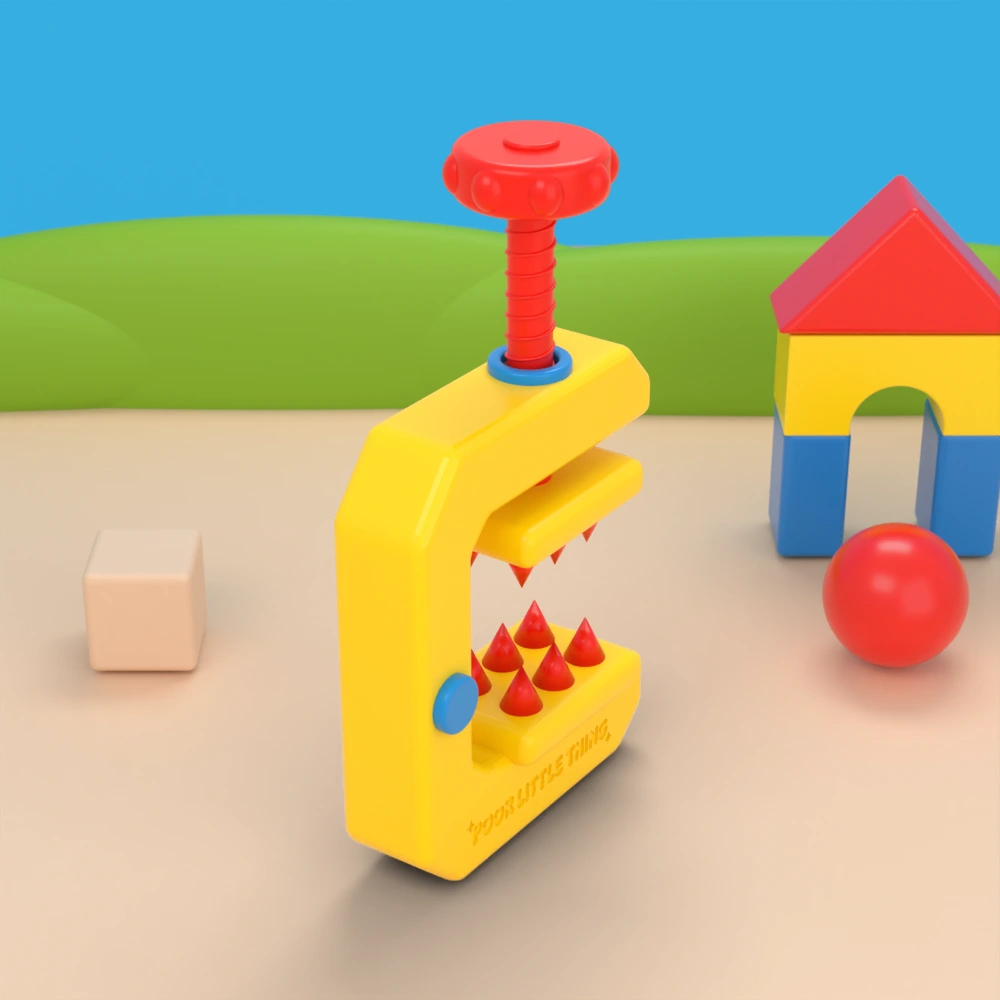
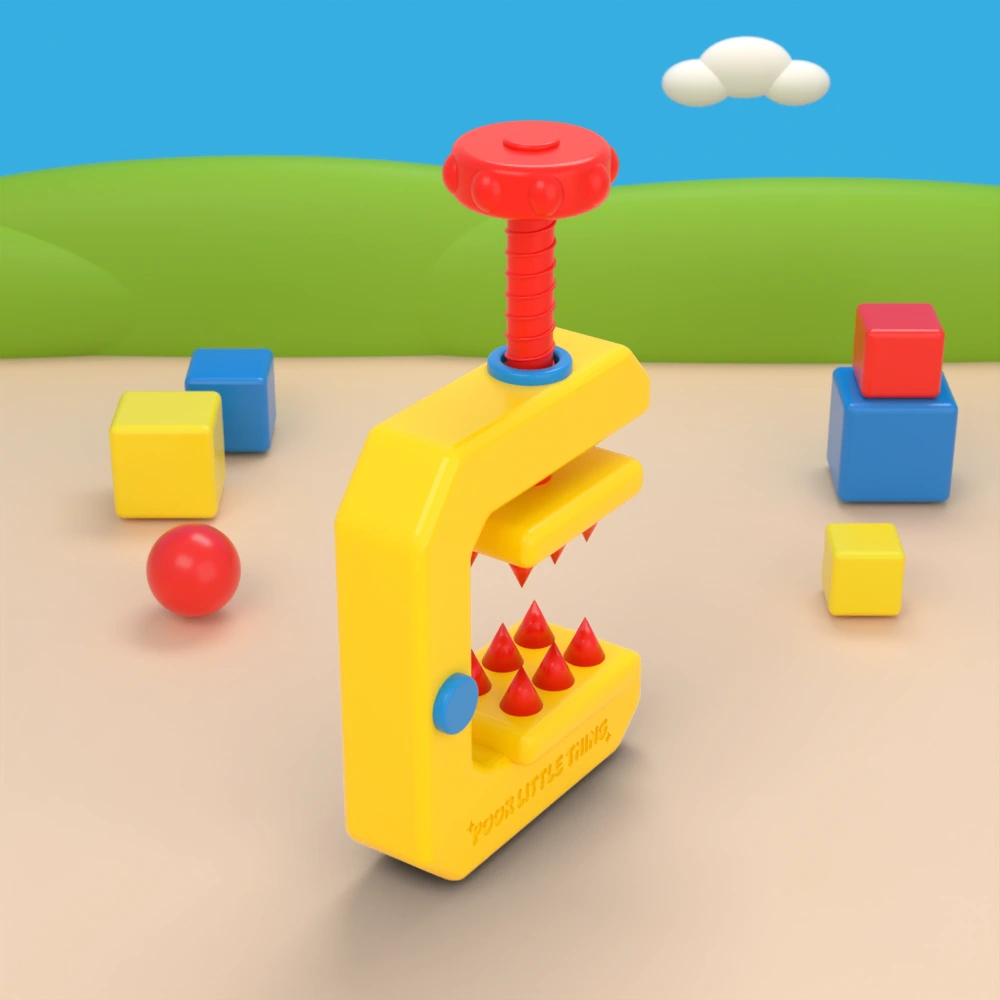
Turn models with pointer movement and vary toy scenes

Changed region(s): [[0.0, 0.155, 1.0, 0.744], [0.0, 0.341, 0.496, 0.713], [0.651, 0.031, 0.837, 0.124]]

diff --git a/src/style.css b/src/style.css
@@ -4,42 +4,33 @@
 *{box-sizing:border-box}html{scroll-behavior:smooth;scroll-padding-top:24px}body{margin:0}button,a,input{-webkit-tap-highlight-color:transparent}button,input{font:inherit}button,a{touch-action:manipulation}button{cursor:pointer}a{color:inherit;text-decoration:none}button{color:inherit}button:focus-visible,a:focus-visible,input:focus-visible,summary:focus-visible{outline:3px solid var(--blue);outline-offset:6px}::selection{background:var(--yellow);color:var(--dark-red)}img{max-width:100%;display:block}.sr-only{position:absolute;width:1px;height:1px;padding:0;margin:-1px;overflow:hidden;clip:rect(0,0,0,0);white-space:nowrap;border:0}.skip-link{position:fixed;left:24px;top:16px;z-index:100;background:var(--red);color:var(--paper);padding:14px 20px;transform:translateY(-150%)}.skip-link:focus{transform:translateY(0)}
 .site-header{display:grid;grid-template-columns:90px 1fr auto;align-items:center;gap:30px;margin:0 3.3vw;padding:26px 0 20px;border-bottom:1px solid var(--line)}.brand{display:block;width:78px;height:78px}.brand img,.footer-brand img{filter:invert(10%) sepia(99%) saturate(4886%) hue-rotate(360deg) brightness(77%) contrast(119%);width:100%;height:100%;object-fit:contain}.header-note{font-size:14px;line-height:1.2;letter-spacing:-.02em}.site-header nav{display:flex;gap:42px;font-size:15px;letter-spacing:-.025em}.site-header nav a{padding:8px 0;text-decoration-thickness:1px;text-underline-offset:5px}.site-header nav a:hover{text-decoration:underline}
 .hero{padding:0 3.3vw}.hero-heading{display:flex;align-items:flex-end;justify-content:space-between;gap:40px;padding:46px 0 45px}.hero h1{font-size:clamp(68px,8.6vw,160px);font-weight:650;letter-spacing:-.075em;line-height:.86;color:var(--red);margin:0}.hero h1 span{display:block}.hero h1 span:last-child{padding-left:15.5vw}.hero-aside{display:flex;align-items:flex-end;gap:60px;padding-bottom:6px;flex-shrink:0}.hero-aside p{font-size:17px;line-height:1.32;letter-spacing:-.025em;margin:0 0 2px}.explore-link{min-height:44px;display:flex;align-items:center;font-size:15px;text-decoration:underline;text-decoration-thickness:1px;text-underline-offset:6px;transition:color .2s}.explore-link:hover{color:var(--red)}.hero-figure{margin:0}.hero-image-wrap{overflow:hidden;background:#51b8dd;aspect-ratio:1672/941}.hero-image{width:100%;height:100%;object-fit:cover;transform-origin:50% 50%}.hero figcaption{display:flex;justify-content:space-between;gap:20px;padding:15px 0 20px;font-size:12px;letter-spacing:.015em}.hero figcaption>span:first-child{font-size:10px;font-weight:700;letter-spacing:.07em}.caption-end{text-align:right}
-.collection{padding:125px 3.3vw 100px}.section-intro{display:grid;grid-template-columns:1fr 2fr;gap:30px;align-items:start;margin-bottom:66px}.section-number{font-size:11px;letter-spacing:.07em;padding-top:11px;font-weight:600}.section-intro>div{display:grid;grid-template-columns:1.2fr 1fr;gap:48px}.section-intro h2{font-size:clamp(36px,4.4vw,76px);line-height:.98;letter-spacing:-.06em;font-weight:550;margin:0}.section-intro p{font-size:19px;line-height:1.4;letter-spacing:-.03em;max-width:300px;margin:7px 0 0}.collection-toolbar{border-bottom:1px solid var(--line);display:flex;justify-content:space-between;align-items:center;gap:20px;padding-bottom:15px}.filters{display:flex;gap:30px}.filter,.motion-toggle{background:none;border:0;padding:8px 0;font-size:14px;line-height:1.3}.filter{color:color-mix(in srgb,var(--ink) 58%,transparent);position:relative}.filter::after{content:'';height:2px;background:var(--red);position:absolute;bottom:-16px;left:0;right:0;transform:scaleX(0);transform-origin:left;transition:transform .2s}.filter.active{color:var(--red)}.filter.active::after{transform:scaleX(1)}.filter span{font-size:10px;vertical-align:super;padding-left:4px}.motion-toggle{display:flex;align-items:center;gap:10px}.motion-icon{font-size:18px;line-height:1;min-width:15px}.view-hint{display:flex;gap:10px;margin:15px 0 30px;font-size:12px;color:color-mix(in srgb,var(--ink) 72%,transparent)}.view-hint>span{font-size:16px;line-height:14px}.product-grid{display:grid;grid-template-columns:repeat(3,minmax(0,1fr));gap:50px 22px}.product-card{min-width:0}.product-card[hidden]{display:none}.object-stage{position:relative;aspect-ratio:1;background:#eeeadd;overflow:hidden;isolation:isolate}.product-card:nth-child(6n+2) .object-stage{background:#e4e9e4}.product-card:nth-child(6n+3) .object-stage{background:#efe0d6}.product-card:nth-child(6n+4) .object-stage{background:#e7e5e9}.product-card:nth-child(6n+5) .object-stage{background:#ece7d0}.product-card:nth-child(6n+6) .object-stage{background:#e2e7ec}.object-stage img{position:absolute;inset:0;width:100%;height:100%;object-fit:cover;opacity:0;pointer-events:none}.object-stage img.is-active{opacity:1}.piece-number{position:absolute;top:16px;left:17px;font-size:10px;letter-spacing:.04em;color:color-mix(in srgb,var(--ink) 60%,transparent);z-index:3}.object-turn-label{position:absolute;bottom:16px;right:17px;font-size:10px;display:flex;align-items:center;gap:6px;opacity:0;transform:translateY(3px);transition:opacity .2s,transform .2s;pointer-events:none;z-index:3}.object-stage:hover .object-turn-label,.product-card:focus-within .object-turn-label{opacity:.8;transform:none}.piece-details{border-bottom:1px solid var(--line)}.piece-details summary{display:flex;align-items:center;justify-content:space-between;gap:12px;cursor:pointer;list-style:none;padding:2px 0 14px}.piece-details summary::-webkit-details-marker{display:none}.piece-title{font-size:20px;font-weight:500;letter-spacing:-.04em}.piece-category{display:block;font-size:11px;font-weight:400;letter-spacing:0;margin-top:5px;color:color-mix(in srgb,var(--ink) 65%,transparent)}.detail-plus{font-size:24px;font-weight:300;transition:transform .2s}.piece-details[open] .detail-plus{transform:rotate(45deg)}.piece-description{padding:3px 0 20px;font-size:15px;line-height:1.45;letter-spacing:-.01em;max-width:35ch}.piece-description p{margin:0 0 10px}.piece-description .piece-medium{font-size:11px;color:color-mix(in srgb,var(--ink) 65%,transparent);margin-bottom:0}.collection-end{display:flex;align-items:center;justify-content:space-between;margin-top:60px;padding:24px 0 0;font-size:16px;letter-spacing:-.025em}.collection-error{padding:50px 0}.collection-error button,.collection-error a{color:var(--red);background:none;border:0;text-decoration:underline;padding:0}
+.collection{padding:125px 3.3vw 100px}.section-intro{display:grid;grid-template-columns:1fr 2fr;gap:30px;align-items:start;margin-bottom:66px}.section-number{font-size:11px;letter-spacing:.07em;padding-top:11px;font-weight:600}.section-intro>div{display:grid;grid-template-columns:1.2fr 1fr;gap:48px}.section-intro h2{font-size:clamp(36px,4.4vw,76px);line-height:.98;letter-spacing:-.06em;font-weight:550;margin:0}.section-intro p{font-size:19px;line-height:1.4;letter-spacing:-.03em;max-width:300px;margin:7px 0 0}.collection-toolbar{border-bottom:1px solid var(--line);display:flex;justify-content:space-between;align-items:center;gap:20px;padding-bottom:15px}.filters{display:flex;gap:30px}.filter{background:none;border:0;padding:8px 0;font-size:14px;line-height:1.3}.filter{color:color-mix(in srgb,var(--ink) 58%,transparent);position:relative}.filter::after{content:'';height:2px;background:var(--red);position:absolute;bottom:-16px;left:0;right:0;transform:scaleX(0);transform-origin:left;transition:transform .2s}.filter.active{color:var(--red)}.filter.active::after{transform:scaleX(1)}.filter span{font-size:10px;vertical-align:super;padding-left:4px}.view-hint{display:flex;gap:10px;margin:15px 0 30px;font-size:12px;color:color-mix(in srgb,var(--ink) 72%,transparent)}.view-hint>span{font-size:16px;line-height:14px}.product-grid{display:grid;grid-template-columns:repeat(3,minmax(0,1fr));gap:50px 22px}.product-card{min-width:0}.product-card[hidden]{display:none}.object-stage{position:relative;aspect-ratio:1;background:#eeeadd;overflow:hidden;isolation:isolate}.product-card:nth-child(6n+2) .object-stage{background:#e4e9e4}.product-card:nth-child(6n+3) .object-stage{background:#efe0d6}.product-card:nth-child(6n+4) .object-stage{background:#e7e5e9}.product-card:nth-child(6n+5) .object-stage{background:#ece7d0}.product-card:nth-child(6n+6) .object-stage{background:#e2e7ec}.object-stage img{position:absolute;inset:0;width:100%;height:100%;object-fit:cover;opacity:0;pointer-events:none}.object-stage img.is-active{opacity:1}.piece-number{position:absolute;top:16px;left:17px;font-size:10px;letter-spacing:.04em;color:color-mix(in srgb,var(--ink) 60%,transparent);z-index:3}.object-turn-label{position:absolute;bottom:16px;right:17px;font-size:10px;display:flex;align-items:center;gap:6px;opacity:0;transform:translateY(3px);transition:opacity .2s,transform .2s;pointer-events:none;z-index:3}.object-stage:hover .object-turn-label,.product-card:focus-within .object-turn-label{opacity:.8;transform:none}.piece-details{border-bottom:1px solid var(--line)}.piece-details summary{display:flex;align-items:center;justify-content:space-between;gap:12px;cursor:pointer;list-style:none;padding:2px 0 14px}.piece-details summary::-webkit-details-marker{display:none}.piece-title{font-size:20px;font-weight:500;letter-spacing:-.04em}.piece-category{display:block;font-size:11px;font-weight:400;letter-spacing:0;margin-top:5px;color:color-mix(in srgb,var(--ink) 65%,transparent)}.detail-plus{font-size:24px;font-weight:300;transition:transform .2s}.piece-details[open] .detail-plus{transform:rotate(45deg)}.piece-description{padding:3px 0 20px;font-size:15px;line-height:1.45;letter-spacing:-.01em;max-width:35ch}.piece-description p{margin:0 0 10px}.piece-description .piece-medium{font-size:11px;color:color-mix(in srgb,var(--ink) 65%,transparent);margin-bottom:0}.collection-end{display:flex;align-items:center;justify-content:space-between;margin-top:60px;padding:24px 0 0;font-size:16px;letter-spacing:-.025em}.collection-error{padding:50px 0}.collection-error button,.collection-error a{color:var(--red);background:none;border:0;text-decoration:underline;padding:0}
 .idea{background:var(--blue);color:var(--paper);padding:35px 3.3vw 85px;overflow:hidden}.idea-top{display:flex;justify-content:space-between;font-size:11px;letter-spacing:.03em}.idea-top>span:first-child{letter-spacing:.07em}.idea-title-wrap{position:relative;padding-top:75px}.idea h2{font-size:clamp(60px,9.3vw,165px);line-height:.9;letter-spacing:-.07em;font-weight:550;margin:0;color:var(--yellow)}.idea h2 span{display:block;margin-left:17vw}.idea-spark{position:absolute;right:3.5vw;top:65px;font-size:clamp(90px,15vw,260px);line-height:1;color:var(--yellow)}.idea-bottom{display:grid;grid-template-columns:1fr 1fr;gap:12vw;padding-top:90px}.idea-question{font-size:clamp(42px,5.3vw,90px);line-height:.98;letter-spacing:-.06em;margin:0;font-weight:500}.idea-copy{max-width:540px;font-size:20px;line-height:1.4;letter-spacing:-.025em}.idea-copy p{margin:0 0 22px}.idea-copy .idea-final{margin-top:35px;color:var(--yellow)}.adult-note{display:block;font-size:11px;letter-spacing:0;margin-top:40px;opacity:.8}
 .inquiries{padding:95px 3.3vw 105px;background:var(--yellow);color:var(--dark-red)}.inquiry-top{display:flex;justify-content:space-between;align-items:start}.inquiry-top>span{font-size:11px;letter-spacing:.07em}.inquiry-top p{font-size:15px;line-height:1.35;letter-spacing:-.02em;margin:0}.inquiry-link{display:flex;align-items:center;justify-content:space-between;margin:65px 0 28px;gap:20px}.inquiry-link h2{font-size:clamp(60px,8.5vw,145px);font-weight:550;letter-spacing:-.07em;line-height:.9;margin:0}.inquiry-link:hover h2{text-decoration:underline;text-decoration-thickness:.035em;text-underline-offset:.09em}.email-link{display:inline-flex;gap:40px;padding-bottom:8px;border-bottom:1px solid var(--dark-red);font-size:clamp(16px,2.1vw,31px);letter-spacing:-.04em}
 footer{display:grid;grid-template-columns:1fr 1fr 1fr;align-items:end;gap:30px;padding:55px 3.3vw 32px}.footer-brand{width:122px;height:122px}footer>p{font-size:26px;line-height:1.12;letter-spacing:-.04em;margin:0 0 3px}.footer-meta{display:flex;justify-content:space-between;gap:30px;font-size:11px;align-self:end}.footer-meta a{white-space:nowrap}.footer-meta a:hover{text-decoration:underline}
 @media(min-width:1900px){body{max-width:2000px;margin:auto}.hero h1 span:last-child{padding-left:300px}.idea h2 span{margin-left:325px}}
 @media(max-width:1150px){.hero h1{font-size:9.6vw}.hero h1 span:last-child{padding-left:7vw}.hero-aside{gap:25px}.hero-aside p{font-size:14px}.section-intro{grid-template-columns:1fr 2.5fr}.section-intro>div{gap:30px}.section-intro p{font-size:16px}.site-header nav{gap:26px}.product-grid{gap:42px 18px}.footer-meta{flex-direction:column;gap:18px}}
-@media(max-width:760px){.site-header{grid-template-columns:64px 1fr;margin:0 5vw;padding-top:20px;padding-bottom:18px;gap:15px}.brand{width:60px;height:60px}.header-note{display:none}.site-header nav{gap:22px;justify-content:flex-end;font-size:12px}.hero{padding:0 5vw}.hero-heading{padding:42px 0 28px;gap:20px}.hero h1{font-size:12vw;line-height:.9}.hero h1 span:last-child{padding-left:6vw}.hero-aside p{display:none}.explore-link{font-size:13px}.hero-figure .hero-image-wrap{aspect-ratio:1.34}.hero-image{object-position:50% 50%}.hero figcaption{font-size:10px;gap:10px;padding-top:12px}.hero figcaption>span:first-child{font-size:8px}.caption-end{display:none}.collection{padding:75px 5vw 65px}.section-intro{display:block;margin-bottom:38px}.section-number{display:block;padding:0 0 24px;font-size:10px}.section-intro>div{grid-template-columns:1.15fr 1fr;gap:30px}.section-intro h2{font-size:6.3vw}.section-intro p{font-size:14px;line-height:1.35;margin:0}.filters{gap:22px}.filter,.motion-toggle{font-size:12px}.motion-toggle{gap:6px}.motion-icon{font-size:15px}.view-hint{font-size:10px;margin-bottom:24px;line-height:1.35;align-items:center}.product-grid{grid-template-columns:repeat(2,minmax(0,1fr));gap:32px 14px}.piece-number{top:12px;left:12px;font-size:9px}.object-turn-label{display:none}.piece-title{font-size:18px}.piece-category{font-size:10px}.piece-details summary{padding-bottom:12px}.piece-description{font-size:13px}.collection-end{margin-top:40px;font-size:12px;gap:20px}.idea{padding:25px 5vw 55px}.idea-top{font-size:9px}.idea-top>span:last-child{max-width:110px;text-align:right}.idea-title-wrap{padding-top:56px}.idea h2{font-size:11vw}.idea h2 span{margin-left:5vw}.idea-spark{right:0;top:44px;font-size:18vw}.idea-bottom{padding-top:55px;grid-template-columns:.8fr 1.3fr;gap:10vw}.idea-question{font-size:7vw}.idea-copy{font-size:15px}.idea-copy p{margin-bottom:17px}.idea-copy .idea-final{margin-top:25px}.adult-note{font-size:10px;margin-top:28px}.inquiries{padding:55px 5vw 60px}.inquiry-top>span{font-size:10px}.inquiry-top p{font-size:12px}.inquiry-link{margin-top:45px}.inquiry-link h2{font-size:11.2vw}.email-link{font-size:20px;gap:20px}footer{padding:35px 5vw 26px;grid-template-columns:1fr 1fr;gap:25px}.footer-brand{width:90px;height:90px}footer>p{font-size:21px}.footer-meta{grid-column:1/-1;flex-direction:row;font-size:10px;padding-top:10px}}
-@media(max-width:430px){.site-header nav{gap:16px;font-size:11px}.hero-heading{padding-top:34px}.hero h1{font-size:12.3vw}.explore-link{font-size:12px}.hero-aside{padding-bottom:1px}.hero-image-wrap{margin-left:-5vw;margin-right:-5vw;aspect-ratio:1.15!important}.section-intro>div{display:block}.section-intro h2{font-size:10vw}.section-intro p{font-size:15px;max-width:29ch;margin-top:24px}.collection-toolbar{align-items:center;gap:8px}.filters{gap:14px}.filter,.motion-toggle{font-size:11px}.motion-label{max-width:62px;text-align:left}.filter::after{bottom:-16px}.product-grid{grid-template-columns:1fr;gap:33px}.object-stage{aspect-ratio:1}.piece-title{font-size:22px}.piece-category{font-size:11px}.piece-description{font-size:15px}.idea-bottom{display:block}.idea-question{font-size:11vw;margin-bottom:35px}.idea-copy{font-size:17px;max-width:32ch}.idea h2{font-size:11.4vw}.idea-spark{top:48px;right:-1vw;font-size:15vw}.inquiry-top p{font-size:11px}.email-link{font-size:18px}.footer-brand{width:80px;height:80px}footer>p{font-size:19px}}
+@media(max-width:760px){.site-header{grid-template-columns:64px 1fr;margin:0 5vw;padding-top:20px;padding-bottom:18px;gap:15px}.brand{width:60px;height:60px}.header-note{display:none}.site-header nav{gap:22px;justify-content:flex-end;font-size:12px}.hero{padding:0 5vw}.hero-heading{padding:42px 0 28px;gap:20px}.hero h1{font-size:12vw;line-height:.9}.hero h1 span:last-child{padding-left:6vw}.hero-aside p{display:none}.explore-link{font-size:13px}.hero-figure .hero-image-wrap{aspect-ratio:1.34}.hero-image{object-position:50% 50%}.hero figcaption{font-size:10px;gap:10px;padding-top:12px}.hero figcaption>span:first-child{font-size:8px}.caption-end{display:none}.collection{padding:75px 5vw 65px}.section-intro{display:block;margin-bottom:38px}.section-number{display:block;padding:0 0 24px;font-size:10px}.section-intro>div{grid-template-columns:1.15fr 1fr;gap:30px}.section-intro h2{font-size:6.3vw}.section-intro p{font-size:14px;line-height:1.35;margin:0}.filters{gap:22px}.filter{font-size:12px}.view-hint{font-size:10px;margin-bottom:24px;line-height:1.35;align-items:center}.product-grid{grid-template-columns:repeat(2,minmax(0,1fr));gap:32px 14px}.piece-number{top:12px;left:12px;font-size:9px}.object-turn-label{display:none}.piece-title{font-size:18px}.piece-category{font-size:10px}.piece-details summary{padding-bottom:12px}.piece-description{font-size:13px}.collection-end{margin-top:40px;font-size:12px;gap:20px}.idea{padding:25px 5vw 55px}.idea-top{font-size:9px}.idea-top>span:last-child{max-width:110px;text-align:right}.idea-title-wrap{padding-top:56px}.idea h2{font-size:11vw}.idea h2 span{margin-left:5vw}.idea-spark{right:0;top:44px;font-size:18vw}.idea-bottom{padding-top:55px;grid-template-columns:.8fr 1.3fr;gap:10vw}.idea-question{font-size:7vw}.idea-copy{font-size:15px}.idea-copy p{margin-bottom:17px}.idea-copy .idea-final{margin-top:25px}.adult-note{font-size:10px;margin-top:28px}.inquiries{padding:55px 5vw 60px}.inquiry-top>span{font-size:10px}.inquiry-top p{font-size:12px}.inquiry-link{margin-top:45px}.inquiry-link h2{font-size:11.2vw}.email-link{font-size:20px;gap:20px}footer{padding:35px 5vw 26px;grid-template-columns:1fr 1fr;gap:25px}.footer-brand{width:90px;height:90px}footer>p{font-size:21px}.footer-meta{grid-column:1/-1;flex-direction:row;font-size:10px;padding-top:10px}}
+@media(max-width:430px){.site-header nav{gap:16px;font-size:11px}.hero-heading{padding-top:34px}.hero h1{font-size:12.3vw}.explore-link{font-size:12px}.hero-aside{padding-bottom:1px}.hero-image-wrap{margin-left:-5vw;margin-right:-5vw;aspect-ratio:1.15!important}.section-intro>div{display:block}.section-intro h2{font-size:10vw}.section-intro p{font-size:15px;max-width:29ch;margin-top:24px}.collection-toolbar{align-items:center;gap:8px}.filters{gap:14px}.filter{font-size:11px}.filter::after{bottom:-16px}.product-grid{grid-template-columns:1fr;gap:33px}.object-stage{aspect-ratio:1}.piece-title{font-size:22px}.piece-category{font-size:11px}.piece-description{font-size:15px}.idea-bottom{display:block}.idea-question{font-size:11vw;margin-bottom:35px}.idea-copy{font-size:17px;max-width:32ch}.idea h2{font-size:11.4vw}.idea-spark{top:48px;right:-1vw;font-size:15vw}.inquiry-top p{font-size:11px}.email-link{font-size:18px}.footer-brand{width:80px;height:80px}footer>p{font-size:19px}}
 @media(prefers-reduced-motion:reduce){html{scroll-behavior:auto}*,*::before,*::after{animation-duration:.01ms!important;animation-iteration-count:1!important;transition-duration:.01ms!important}.hero-image{transform:none!important}}
 
 /* One shared WebGL renderer paints these local canvases over a fixed plate. */
-.object-stage{touch-action:pan-y pinch-zoom;cursor:grab;user-select:none}
-.object-stage.is-dragging{cursor:grabbing}
+.object-stage{touch-action:pan-y pinch-zoom;cursor:ew-resize;user-select:none}
+.object-stage.is-dragging{cursor:ew-resize}
 .object-stage .viewer-background,.object-stage .object-poster{opacity:1;z-index:0;transition:none}
 .object-stage .object-poster{z-index:1}
 .object-stage.is-live .object-poster{opacity:0}
 .scene-canvas{position:absolute;inset:0;width:100%;height:100%;pointer-events:none;z-index:2;opacity:0}
 .object-stage.is-live .scene-canvas{opacity:1}
 .viewer-state{position:absolute;right:15px;top:14px;z-index:3;font-size:9px;background:color-mix(in srgb,var(--paper) 86%,transparent);padding:5px 7px;line-height:1.1;pointer-events:none}
-.viewer-controls{display:flex;gap:5px;align-items:center;padding:5px 0 2px}
-.turn-control{flex:1;min-width:0;display:flex;align-items:center;min-height:44px;padding:0 8px 0 0}
-.turn-range{appearance:none;-webkit-appearance:none;width:100%;height:44px;margin:0;background:transparent;cursor:ew-resize}
-.turn-range::-webkit-slider-runnable-track{height:1px;background:var(--line)}
-.turn-range::-moz-range-track{height:1px;background:var(--line)}
-.turn-range::-webkit-slider-thumb{appearance:none;-webkit-appearance:none;width:22px;height:6px;background:var(--red);margin-top:-2.5px;border-radius:0}
-.turn-range::-moz-range-thumb{width:22px;height:6px;background:var(--red);border:0;border-radius:0}
-.model-control{height:44px;min-width:44px;background:transparent;border:0;font-size:20px;padding:0 6px;border-radius:0}
-.model-control:hover{background:color-mix(in srgb,var(--red) 7%,transparent)}
-.reset-model{font-size:11px;letter-spacing:-.01em}
+
 .stl-download{display:flex;justify-content:space-between;align-items:center;min-height:44px;font-size:12px;color:var(--red)}
 .stl-download>span{font-size:10px;color:color-mix(in srgb,var(--ink) 60%,transparent)}
 .stl-download:hover{text-decoration:underline;text-underline-offset:3px}
 .retry-3d{background:none;border:0;color:var(--red);text-decoration:underline;text-underline-offset:3px;font-size:12px;padding:8px 0;min-height:44px}
 .retry-3d[hidden]{display:none}
-@media(max-width:760px){.viewer-state{right:10px;top:10px;font-size:8px;padding:4px 6px}.viewer-controls{gap:0}.reset-model{font-size:10px}.turn-control{padding-right:4px}}
-
-.model-control:disabled,.turn-range:disabled{opacity:.35;cursor:default}.model-control:disabled:hover{background:none}
+@media(max-width:760px){.viewer-state{right:10px;top:10px;font-size:8px;padding:4px 6px}}
 
 .idea-spark svg{display:block}
+
+.piece-details summary{padding-top:15px}

diff --git a/src/gallery-3d.js b/src/gallery-3d.js
@@ -5,7 +5,7 @@ import { MeshoptDecoder } from 'three/addons/libs/meshopt_decoder.module.js';
 
 // One WebGL renderer serves every card. Each card receives a 2D copy of its
 // rendered scene, so the gallery never creates eighteen WebGL contexts.
-export function createGallery3D({ isPaused, reduceMotion }) {
+export function createGallery3D({ reduceMotion }) {
   const views = new Set();
   const queue = [];
   const loader = new GLTFLoader();
@@ -46,7 +46,28 @@ export function createGallery3D({ isPaused, reduceMotion }) {
   function fallback(view, message = 'Image preview. 3D is unavailable.') {
     view.stage.classList.remove('is-live');
     view.status.textContent = message;
-    view.card.querySelectorAll('.viewer-controls button, .viewer-controls input').forEach(control => { control.disabled = true; });
+    view.stage.setAttribute('role', 'img');
+    view.stage.setAttribute('aria-label', `${view.product.title}, image preview`);
+    view.stage.setAttribute('aria-describedby', view.status.id);
+    view.stage.tabIndex = -1;
+    ['aria-valuemin', 'aria-valuemax', 'aria-valuenow', 'aria-valuetext', 'aria-orientation'].forEach(attribute => view.stage.removeAttribute(attribute));
+  }
+
+  function exposeSlider(view) {
+    view.stage.setAttribute('role', 'slider');
+    view.stage.setAttribute('aria-label', `Turn ${view.product.title}`);
+    view.stage.setAttribute('aria-valuemin', '-90');
+    view.stage.setAttribute('aria-valuemax', '90');
+    view.stage.setAttribute('aria-orientation', 'horizontal');
+    view.stage.setAttribute('aria-describedby', `viewer-help viewer-keyboard-help ${view.status.id}`);
+    view.stage.tabIndex = 0;
+    updateSliderValue(view);
+  }
+
+  function updateSliderValue(view) {
+    const degrees = Math.round(THREE.MathUtils.radToDeg(view.angle));
+    view.stage.setAttribute('aria-valuenow', String(degrees));
+    view.stage.setAttribute('aria-valuetext', `${degrees} degrees`);
   }
 
   function disposeScene(scene) {
@@ -104,7 +125,7 @@ export function createGallery3D({ isPaused, reduceMotion }) {
     model.position.add(new THREE.Vector3(-center.x, -bounds.min.y, -center.z));
     root.scale.setScalar(scale);
     // Match the common toy-world plate. Every card shares this exact camera;
-    // the object alone is fitted to the stage and rotated by the controls.
+    // the object alone is fitted to the stage and rotated by pointer movement.
     const target = new THREE.Vector3(0, 1.1706807, 0);
     const camera = new THREE.PerspectiveCamera(24.19997, 1, .01, 100);
     camera.position.set(0, 5.4706807, 8.4);
@@ -133,7 +154,6 @@ export function createGallery3D({ isPaused, reduceMotion }) {
     floor.receiveShadow = true;
     scene.add(floor);
     Object.assign(view, { scene, root, camera, baseScale: scale, ready: true, dirty: true });
-    view.card.querySelectorAll('.viewer-controls button, .viewer-controls input').forEach(control => { control.disabled = false; });
     view.lastUsed = performance.now();
     applyPose(view);
   }
@@ -182,14 +202,13 @@ export function createGallery3D({ isPaused, reduceMotion }) {
   function applyPose(view) {
     if (!view.root) return;
     view.root.rotation.y = view.angle;
-    view.root.scale.setScalar(view.baseScale * view.zoom);
+    view.root.scale.setScalar(view.baseScale);
     view.dirty = true;
-    view.range.value = String(Math.round(THREE.MathUtils.radToDeg(view.angle)));
-    view.range.setAttribute('aria-valuetext', `${Math.round(THREE.MathUtils.radToDeg(view.angle))} degrees`);
+    view.stage.dataset.rotation = String(Math.round(THREE.MathUtils.radToDeg(view.angle)));
+    if (view.stage.getAttribute('role') === 'slider') updateSliderValue(view);
   }
 
   function interact(view) {
-    view.interactionUntil = performance.now() + 7000;
     if (!view.ready && !view.failed) { view.near = true; requestLoad(view); }
   }
 
@@ -203,13 +222,12 @@ export function createGallery3D({ isPaused, reduceMotion }) {
     const view = {
       card, product, stage, canvas, ctx: canvas.getContext('2d'),
       plate: stage.querySelector('.viewer-background'), plateReady: false,
-      range: card.querySelector('.turn-range'), status: card.querySelector('.viewer-state'),
-      retry: card.querySelector('.retry-3d'), angle: 0, zoom: 1, direction: 1,
+      status: card.querySelector('.viewer-state'),
+      retry: card.querySelector('.retry-3d'), angle: 0, targetAngle: 0,
       near: false, ready: false, loading: false, dirty: true, queued: false,
-      interactionUntil: 0, lastUsed: 0, pointer: null
+      lastUsed: 0, pointer: null
     };
     views.add(view);
-    view.card.querySelectorAll('.viewer-controls button, .viewer-controls input').forEach(control => { control.disabled = true; });
     if (!renderer || !view.ctx) {
       fallback(view);
       stage.tabIndex = -1;
@@ -217,25 +235,12 @@ export function createGallery3D({ isPaused, reduceMotion }) {
     }
     function turn(angle) {
       interact(view);
-      view.angle = THREE.MathUtils.clamp(angle, -Math.PI, Math.PI);
-      applyPose(view);
-    }
-    function zoomBy(delta) {
-      interact(view);
-      view.zoom = THREE.MathUtils.clamp(view.zoom + delta, .7, 1.45);
-      applyPose(view);
+      view.targetAngle = THREE.MathUtils.clamp(angle, -Math.PI / 2, Math.PI / 2);
     }
     function reset() {
       interact(view);
-      view.angle = 0;
-      view.zoom = 1;
-      view.direction = 1;
-      applyPose(view);
+      view.targetAngle = 0;
     }
-    view.range.addEventListener('input', () => turn(THREE.MathUtils.degToRad(Number(view.range.value))));
-    card.querySelector('.zoom-out').addEventListener('click', () => zoomBy(-.1));
-    card.querySelector('.zoom-in').addEventListener('click', () => zoomBy(.1));
-    card.querySelector('.reset-model').addEventListener('click', reset);
     view.retry.addEventListener('click', () => {
       view.failed = false;
       view.retry.hidden = true;
@@ -243,26 +248,25 @@ export function createGallery3D({ isPaused, reduceMotion }) {
       requestLoad(view);
     });
     stage.addEventListener('keydown', event => {
-      if (event.key === 'ArrowLeft') turn(view.angle - Math.PI / 12);
-      else if (event.key === 'ArrowRight') turn(view.angle + Math.PI / 12);
-      else if (event.key === '+' || event.key === '=') zoomBy(.1);
-      else if (event.key === '-') zoomBy(-.1);
-      else if (event.key === '0' || event.key === 'Home') reset();
+      if (event.key === 'ArrowLeft') turn(view.targetAngle - Math.PI / 12);
+      else if (event.key === 'ArrowRight') turn(view.targetAngle + Math.PI / 12);
+      else if (event.key === 'Home') turn(-Math.PI / 2);
+      else if (event.key === 'End') turn(Math.PI / 2);
+      else if (event.key === '0') reset();
       else return;
       event.preventDefault();
     });
-    stage.addEventListener('dblclick', reset);
     stage.addEventListener('pointerdown', event => {
-      if (event.button !== 0 || !event.isPrimary) return;
+      if (event.pointerType === 'mouse' || event.button !== 0 || !event.isPrimary) return;
       interact(view);
-      view.pointer = { id: event.pointerId, x: event.clientX, y: event.clientY, angle: view.angle, dragging: event.pointerType === 'mouse' };
-      if (event.pointerType === 'mouse') {
-        stage.setPointerCapture(event.pointerId);
-        stage.focus({ preventScroll: true });
-        event.preventDefault();
-      }
+      view.pointer = { id: event.pointerId, x: event.clientX, y: event.clientY, angle: view.targetAngle, dragging: false };
     });
     stage.addEventListener('pointermove', event => {
+      if (event.pointerType === 'mouse') {
+        const bounds = stage.getBoundingClientRect();
+        turn(((event.clientX - bounds.left) / bounds.width - .5) * Math.PI);
+        return;
+      }
       const pointer = view.pointer;
       if (!pointer || pointer.id !== event.pointerId) return;
       const dx = event.clientX - pointer.x;
@@ -273,14 +277,16 @@ export function createGallery3D({ isPaused, reduceMotion }) {
       }
       if (!pointer.dragging) return;
       stage.classList.add('is-dragging');
-      turn(pointer.angle + dx / stage.clientWidth * Math.PI * 2);
+      turn(pointer.angle + dx / stage.clientWidth * Math.PI);
+    });
+    stage.addEventListener('pointerleave', event => {
+      if (event.pointerType === 'mouse') view.targetAngle = view.angle;
     });
     function release(event) {
       if (view.pointer?.id !== event.pointerId) return;
       view.pointer = null;
       stage.classList.remove('is-dragging');
       if (stage.hasPointerCapture(event.pointerId)) stage.releasePointerCapture(event.pointerId);
-      view.interactionUntil = performance.now() + 7000;
     }
     stage.addEventListener('pointerup', release);
     stage.addEventListener('pointercancel', release);
@@ -311,10 +317,9 @@ export function createGallery3D({ isPaused, reduceMotion }) {
       const rect = view.stage.getBoundingClientRect();
       if (rect.bottom <= 0 || rect.top >= window.innerHeight || rect.right <= 0 || rect.left >= window.innerWidth || rect.width <= 0) continue;
       view.lastUsed = time;
-      if (!isPaused() && !view.pointer && !view.card.contains(document.activeElement) && time > view.interactionUntil) {
-        if (view.angle >= Math.PI / 2) view.direction = -1;
-        if (view.angle <= -Math.PI / 2) view.direction = 1;
-        view.angle += delta * .22 * view.direction;
+      if (Math.abs(view.targetAngle - view.angle) > .0001) {
+        view.angle = reduceMotion.matches ? view.targetAngle : THREE.MathUtils.lerp(view.angle, view.targetAngle, 1 - Math.exp(-delta * 16));
+        if (Math.abs(view.targetAngle - view.angle) < .0001) view.angle = view.targetAngle;
         applyPose(view);
       }
       const dpr = Math.min(window.devicePixelRatio || 1, 1.5);
@@ -332,7 +337,7 @@ export function createGallery3D({ isPaused, reduceMotion }) {
         view.ctx.drawImage(renderer.domElement, 0, 0);
         view.stage.classList.add('is-live');
         view.status.textContent = 'Live 3D';
-        view.card.querySelectorAll('.viewer-controls button, .viewer-controls input').forEach(control => { control.disabled = false; });
+        exposeSlider(view);
         view.dirty = false;
       } catch {
         fallback(view);

diff --git a/src/main.js b/src/main.js
@@ -5,11 +5,7 @@ import { ScrollTrigger } from 'gsap/ScrollTrigger';
 gsap.registerPlugin(ScrollTrigger);
 const app = document.querySelector('main');
 const grid = document.querySelector('#product-grid');
-const motionButton = document.querySelector('.motion-toggle');
 const reduceMotion = window.matchMedia('(prefers-reduced-motion: reduce)');
-const saveData = navigator.connection?.saveData === true;
-let paused = reduceMotion.matches || saveData;
-let manuallyPaused = false;
 let products = [];
 let activeFilter = 'All';
 let controllers = [];
@@ -20,22 +16,6 @@ let galleryPromise;
 
 document.querySelector('#year').textContent = new Date().getFullYear();
 
-function syncMotionButton() {
-  motionButton.setAttribute('aria-pressed', String(paused));
-  motionButton.querySelector('.motion-label').textContent = paused ? 'Play rotation' : 'Pause rotation';
-  motionButton.querySelector('.motion-icon').textContent = paused ? '▷' : 'Ⅱ';
-}
-syncMotionButton();
-motionButton.addEventListener('click', () => {
-  paused = !paused;
-  manuallyPaused = paused;
-  syncMotionButton();
-});
-reduceMotion.addEventListener('change', () => {
-  paused = reduceMotion.matches || manuallyPaused || saveData;
-  syncMotionButton();
-});
-
 function createPiece(product, index) {
   const card = document.createElement('article');
   card.className = 'product-card';
@@ -43,18 +23,12 @@ function createPiece(product, index) {
   const title = escapeHtml(product.title);
   const downloadSize = Number.isFinite(product.stlBytes) && product.stlBytes > 0 ? ` · ${(product.stlBytes / 1_000_000).toFixed(1)} MB` : '';
   card.innerHTML = `
-    <div class="object-stage" tabindex="0" role="img" aria-label="Interactive 3D ${title}. Drag left or right to turn. Use left and right arrow keys to turn, plus and minus to zoom, and zero to reset." aria-describedby="viewer-help viewer-state-${index}">
+    <div class="object-stage" tabindex="0" role="slider" aria-label="Turn ${title}" aria-valuemin="-90" aria-valuemax="90" aria-valuenow="0" aria-valuetext="0 degrees" aria-orientation="horizontal" aria-describedby="viewer-help viewer-keyboard-help viewer-state-${index}">
       <img class="viewer-background" src="${escapeHtml(product.background || '/assets/toy-world.webp')}" alt="" aria-hidden="true" width="1000" height="1000" loading="lazy" />
       <img class="object-poster" src="${escapeHtml(product.poster || product.views?.[0] || '')}" alt="${title}" width="1000" height="1000" loading="lazy" />
       <span class="piece-number" aria-hidden="true">${String(index + 1).padStart(2, '0')}</span>
       <span class="viewer-state" id="viewer-state-${index}">Interactive 3D</span>
-      <span class="object-turn-label" aria-hidden="true">DRAG TO TURN</span>
-    </div>
-    <div class="viewer-controls" role="group" aria-label="3D controls for ${title}">
-      <label class="turn-control"><span class="sr-only">Turn ${title}</span><input class="turn-range" type="range" min="-180" max="180" step="1" value="0" aria-valuetext="0 degrees" /></label>
-      <button class="model-control zoom-out" type="button" aria-label="Zoom out ${title}">−</button>
-      <button class="model-control zoom-in" type="button" aria-label="Zoom in ${title}">+</button>
-      <button class="model-control reset-model" type="button" aria-label="Reset ${title} view">Reset</button>
+      <span class="object-turn-label" aria-hidden="true">MOVE TO TURN</span>
     </div>
     <button class="retry-3d" type="button" hidden>Retry 3D</button>
     <details class="piece-details"><summary><span class="piece-title">${title}<span class="piece-category">${escapeHtml(product.category)}</span></span><span class="detail-plus" aria-hidden="true">+</span></summary><div class="piece-description"><p>${escapeHtml(product.description)}</p><p class="piece-medium">${escapeHtml(product.material || 'Sculptural object')} · ${escapeHtml(String(product.year || '2026'))}</p></div></details>
@@ -97,7 +71,7 @@ async function loadCollection() {
     if (!Array.isArray(data) || data.length === 0) throw new Error('Collection unavailable');
     products = data.filter(product => product.title && product.model && product.stl);
     if (!products.length) throw new Error('Collection unavailable');
-    gallery3D = await (galleryPromise ||= import('./gallery-3d.js').then(({ createGallery3D }) => createGallery3D({ isPaused: () => paused, reduceMotion })));
+    gallery3D = await (galleryPromise ||= import('./gallery-3d.js').then(({ createGallery3D }) => createGallery3D({ reduceMotion })));
     controllers.forEach(controller => controller.dispose());
     controllers = [];
     grid.replaceChildren(...products.map(createPiece));

diff --git a/index.html b/index.html
@@ -44,8 +44,9 @@
 
       <section class="collection" id="collection" aria-labelledby="collection-title">
         <div class="section-intro"><span class="section-number">01 / THE COLLECTION</span><div><h2 id="collection-title">Looks familiar.<br />Feels different.</h2><p>Primary colors. Unreasonable shapes. A little tension between what you remember and what you imagine.</p></div></div>
-        <div class="collection-toolbar"><div class="filters" role="group" aria-label="Filter collection"><button class="filter active" type="button" data-filter="All" aria-pressed="true">All pieces <span id="total-count"></span></button><button class="filter" type="button" data-filter="Objects" aria-pressed="false">Objects</button><button class="filter" type="button" data-filter="Wearables" aria-pressed="false">Wearables</button></div><button class="motion-toggle" type="button" aria-pressed="false"><span class="motion-icon" aria-hidden="true">Ⅱ</span><span class="motion-label">Pause rotation</span></button></div>
-        <p class="view-hint" id="viewer-help">Drag a piece to turn it in 3D. Use + and − to zoom, or Reset to begin again.</p>
+        <div class="collection-toolbar"><div class="filters" role="group" aria-label="Filter collection"><button class="filter active" type="button" data-filter="All" aria-pressed="true">All pieces <span id="total-count"></span></button><button class="filter" type="button" data-filter="Objects" aria-pressed="false">Objects</button><button class="filter" type="button" data-filter="Wearables" aria-pressed="false">Wearables</button></div></div>
+        <p class="view-hint" id="viewer-help">Move your mouse across a piece to turn it. On touch, swipe sideways.</p>
+        <p class="sr-only" id="viewer-keyboard-help">Use Left and Right to turn. Home shows the leftmost view, End shows the rightmost view, and 0 resets the piece.</p>
         <p class="sr-only" role="status" id="collection-status" aria-live="polite"></p>
         <div class="product-grid" id="product-grid" aria-busy="true"></div>
         <p class="collection-error" id="collection-error" hidden>The collection couldn’t load. <button id="retry-collection" type="button">Try again</button>, or <a href="mailto:inquiry@poorlittlething.com">say hello</a>.</p>

diff --git a/README.md b/README.md
@@ -23,15 +23,15 @@ The production website is generated in `dist/`. The GitHub Actions workflow buil
 - `public/assets/models/` holds the interactive colored GLB models.
 - `public/downloads/` holds the complete displayed assembly STL files in millimeters.
 - `public/assets/products/` holds fallback poster images.
-- `public/assets/toy-world.webp` is the fixed backdrop shared by the live viewers.
+- `public/assets/backgrounds/` holds three coordinated toy-world backdrops, assigned per piece.
 - `public/assets/hero.webp` is the supplied hero artwork.
 - `public/assets/stacked-logo.svg` preserves the approved stacked brand artwork.
 - `index.html` contains the introduction, manifesto, inquiry address, and metadata.
 - `src/style.css` defines the layout and brand colors.
 
-The gallery uses one shared WebGL renderer with local canvas copies, avoiding a separate WebGL context for every piece. Models load near the viewport, and GPU resources are released as distant pieces leave the active set. Only the featured model rotates; its camera, lights, and background stay fixed. Auto rotation pauses during direct interaction or when the tab is hidden and starts paused for reduced motion or data saving preferences.
+The gallery uses one shared WebGL renderer with local canvas copies, avoiding a separate WebGL context for every piece. Models load near the viewport, and GPU resources are released as distant pieces leave the active set. Only the featured model rotates; its camera, lights, and background stay fixed. Models stay still at rest and respond to pointer movement. Reduced motion preferences remove the short interpolation between pointer positions.
 
-Drag horizontally to turn a model. The turn slider, zoom buttons, and reset control work with keyboard and touch. When a model has keyboard focus, left and right turn it, plus and minus zoom it, and zero resets it. Posters and STL links remain available when WebGL cannot run. STL downloads contain the displayed assembly at its source scale; they are not a prepared print layout. The site has no checkout, visitor accounts, analytics, or form backend.
+Move the mouse across a model to turn it through 180°. On touch, swipe horizontally; vertical page scrolling remains available. Each model exposes an accessible horizontal slider with its actual angle from −90° to +90°. When it has keyboard focus, Left and Right turn it, Home selects −90°, End selects +90°, and zero resets it. Screen readers receive the current rendered angle. Image fallbacks expose a non-focusable preview instead of slider controls. There are no visible rotation controls. Posters and STL links remain available when WebGL cannot run. STL downloads contain the displayed assembly at its source scale; they are not a prepared print layout. The site has no checkout, visitor accounts, analytics, or form backend.
 
 ## Domain
 
